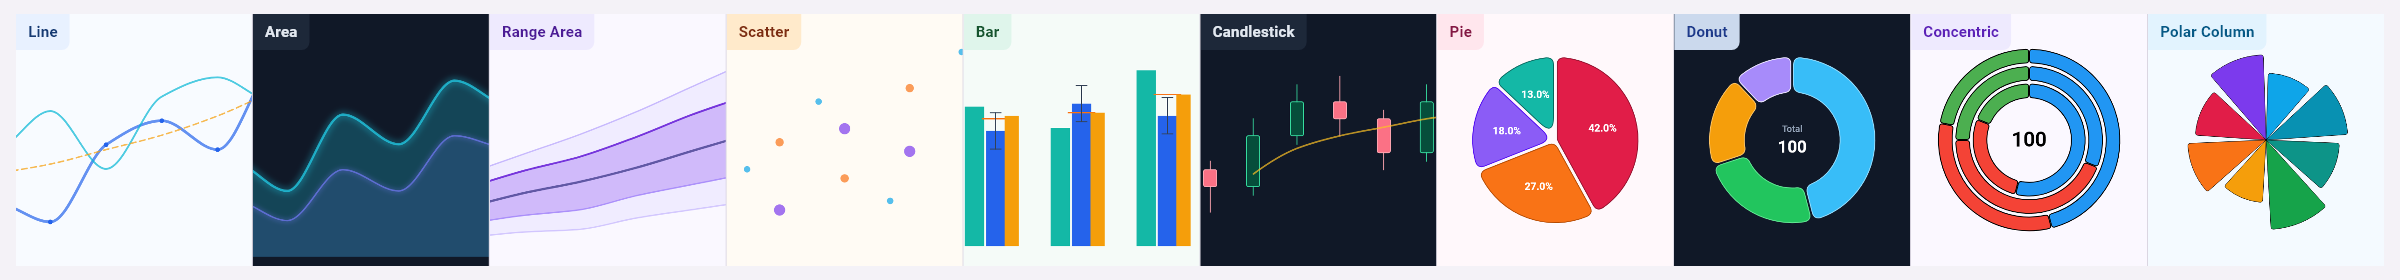
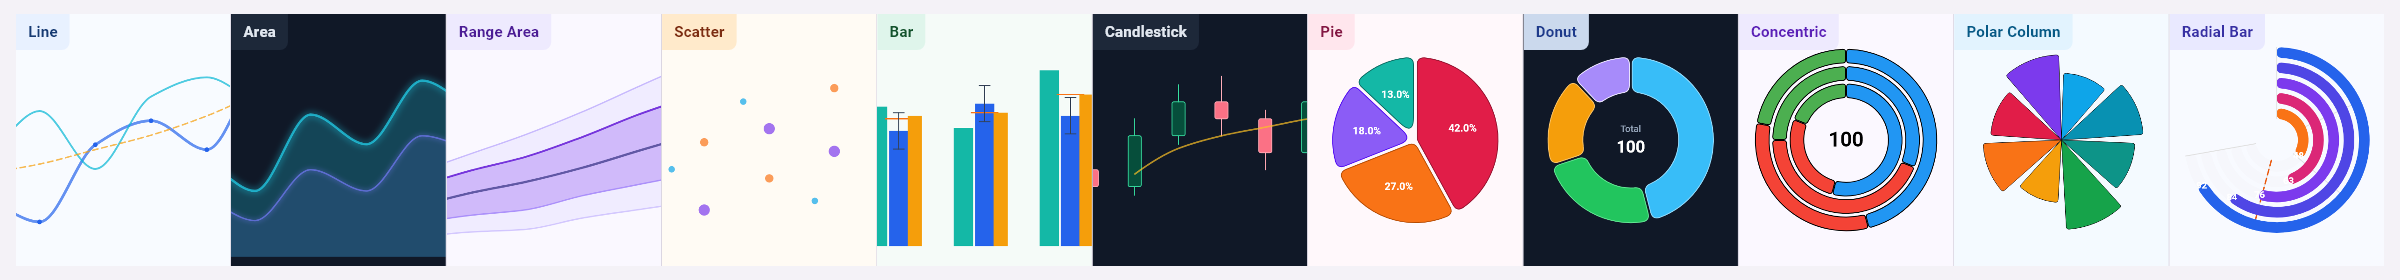
docs: publish radial bar family

diff --git a/tool/capture_pubdev_static_media_test.dart b/tool/capture_pubdev_static_media_test.dart
@@ -403,6 +403,26 @@ void main() {
     );
   });
 
+  testWidgets('capture pub.dev Radial Bar media', (tester) async {
+    await tester.runAsync(_loadCaptureFont);
+    final outputDirectory = Directory(_outputDirectory)
+      ..createSync(recursive: true);
+    final primary = _chartTypeAssets().singleWhere(
+      (asset) => asset.fileName == 'chart_type_radial_bar.png',
+    );
+
+    await _captureChartType(
+      tester,
+      outputDirectory: outputDirectory,
+      asset: primary,
+    );
+    await _captureChartType(
+      tester,
+      outputDirectory: outputDirectory,
+      asset: _radialBarSignedAsset(),
+    );
+  });
+
   testWidgets('capture pub.dev chart type strip', (tester) async {
     await tester.runAsync(_loadCaptureFont);
     final outputDirectory = Directory(_outputDirectory)
@@ -1040,6 +1060,7 @@ Future<_ChartTypeCapture> _captureChartType(
             interactionConfig: InteractionConfig.none(),
             concentricDonutConfig: asset.concentricDonutConfig,
             polarChartConfig: asset.polarChartConfig,
+            radialBarChartConfig: asset.radialBarChartConfig,
           ),
         ),
       ),
@@ -1198,6 +1219,11 @@ Future<void> _captureFamilyPairs(
       output: 'family_polar_column_pair.png',
       primary: 'chart_type_polar_column.png',
       secondary: 'polar_lifecycle_arc.png',
+    ),
+    (
+      output: 'family_radial_bar_pair.png',
+      primary: 'chart_type_radial_bar.png',
+      secondary: 'radial_bar_signed.png',
     ),
   ];
 
@@ -1361,6 +1387,7 @@ class _ChartTypeAsset {
     this.grid = const GridConfig(horizontal: true, vertical: false),
     this.concentricDonutConfig = const ConcentricDonutConfig(),
     this.polarChartConfig = const PolarChartConfig(),
+    this.radialBarChartConfig = const RadialBarChartConfig(),
   });
 
   final String label;
@@ -1372,6 +1399,7 @@ class _ChartTypeAsset {
   final GridConfig grid;
   final ConcentricDonutConfig concentricDonutConfig;
   final PolarChartConfig polarChartConfig;
+  final RadialBarChartConfig radialBarChartConfig;
 }
 
 class _ChartTypeCapture {
@@ -1451,6 +1479,9 @@ List<_ChartTypeAsset> _chartTypeAssets() {
   );
   final polarTheme = ChartTheme.light.copyWith(
     backgroundColor: const Color(0xFFF4FAFF),
+  );
+  final radialBarTheme = ChartTheme.light.copyWith(
+    backgroundColor: const Color(0xFFF8FAFF),
   );
 
   return [
@@ -2014,8 +2045,109 @@ List<_ChartTypeAsset> _chartTypeAssets() {
         ),
       ],
     ),
+    _ChartTypeAsset(
+      label: 'Radial Bar',
+      fileName: 'chart_type_radial_bar.png',
+      theme: radialBarTheme,
+      headerColor: const Color(0xFFE8E7FF),
+      headerTextColor: const Color(0xFF3730A3),
+      grid: const GridConfig(horizontal: false, vertical: false),
+      radialBarChartConfig: const RadialBarChartConfig(
+        pane: PolarPaneConfig(
+          startAngleDegrees: -90,
+          sweepAngleDegrees: 260,
+          innerRadiusFactor: 0.2,
+          outerRadiusFactor: 0.88,
+        ),
+        trackGap: 5,
+        showCategoryLabels: false,
+        showScaleLabels: false,
+        showGridLines: true,
+        tickCount: 5,
+        thresholds: [RadialBarThreshold(value: 75, color: Color(0xFFEA580C))],
+      ),
+      series: [
+        RadialBarChartSeries.fromMap(
+          id: 'radial-bar',
+          name: 'Readiness',
+          values: const {
+            'Build': 92,
+            'Quality': 84,
+            'Docs': 76,
+            'Adoption': 63,
+            'Support': 48,
+          },
+          barColors: const {
+            'Build': Color(0xFF2563EB),
+            'Quality': Color(0xFF4F46E5),
+            'Docs': Color(0xFF7C3AED),
+            'Adoption': Color(0xFFDB2777),
+            'Support': Color(0xFFF97316),
+          },
+          radialBarStyle: const RadialBarStyle(
+            cornerRadius: 8,
+            trackOpacity: 0.1,
+            showDataLabels: true,
+          ),
+        ),
+      ],
+    ),
   ];
 }
+
+_ChartTypeAsset _radialBarSignedAsset() => _ChartTypeAsset(
+  label: 'Signed Radial Bar',
+  fileName: 'radial_bar_signed.png',
+  theme: ChartTheme.dark.copyWith(backgroundColor: const Color(0xFF101827)),
+  headerColor: const Color(0xFF1E293B),
+  headerTextColor: const Color(0xFFE2E8F0),
+  grid: const GridConfig(horizontal: false, vertical: false),
+  radialBarChartConfig: const RadialBarChartConfig(
+    pane: PolarPaneConfig(
+      startAngleDegrees: -90,
+      sweepAngleDegrees: 320,
+      innerRadiusFactor: 0.2,
+      outerRadiusFactor: 0.88,
+    ),
+    trackGap: 5,
+    showCategoryLabels: false,
+    showScaleLabels: false,
+    showGridLines: true,
+    tickCount: 5,
+    thresholds: [
+      RadialBarThreshold(value: 0, color: Color(0xFFF8FAFC), dashPattern: []),
+    ],
+  ),
+  series: [
+    RadialBarChartSeries.fromMap(
+      id: 'radial-bar-signed',
+      name: 'Change',
+      values: const {
+        'Search': 42,
+        'Social': -18,
+        'Email': 31,
+        'Referral': -36,
+        'Direct': 54,
+      },
+      minimum: -60,
+      maximum: 60,
+      baseline: 0,
+      barColors: const {
+        'Search': Color(0xFF38BDF8),
+        'Social': Color(0xFFFB7185),
+        'Email': Color(0xFF2DD4BF),
+        'Referral': Color(0xFFF97316),
+        'Direct': Color(0xFFA78BFA),
+      },
+      unit: 'pts',
+      radialBarStyle: const RadialBarStyle(
+        cornerRadius: 8,
+        trackOpacity: 0.12,
+        showDataLabels: true,
+      ),
+    ),
+  ],
+);
 
 Future<void> _loadCaptureFont() async {
   final fontDirectory = _findFlutterMaterialFontDirectory();

diff --git a/tool/public_docs.dart b/tool/public_docs.dart
@@ -187,8 +187,8 @@ List<String> _validateCatalog(Directory root, Map<String, dynamic> catalog) {
   if (features.length != 6) {
     errors.add('features must contain exactly 6 evergreen groups.');
   }
-  if (families.length != 10) {
-    errors.add('chartFamilies must contain exactly 10 built-in families.');
+  if (families.length != 11) {
+    errors.add('chartFamilies must contain exactly 11 built-in families.');
   }
   if (gallery.length < 12 || gallery.length > 18) {
     errors.add('gallery must contain between 12 and 18 curated entries.');

diff --git a/README.md b/README.md
@@ -6,16 +6,16 @@
 
 Braven Charts is a native Flutter charting system for interactive, production-grade data visualization.
 
-Render ten chart families through one custom `RenderBox` and `Canvas` pipeline. Author charts directly, through the checked typed Grammar of Graphics API, or with fluent modifiers. Then add selection, tracking, live data, multi-axis analysis, generated source, tables, and portable artifacts without leaving Flutter's rendering system.
+Render eleven chart families through one custom `RenderBox` and `Canvas` pipeline. Author charts directly, through the checked typed Grammar of Graphics API, or with fluent modifiers. Then add selection, tracking, live data, multi-axis analysis, generated source, tables, and portable artifacts without leaving Flutter's rendering system.
 
-[![Ten chart families rendered by Braven Charts](https://raw.githubusercontent.com/braven-pvm/braven_charts/master/doc/screenshots/chart_type_strip.png)](https://braven-pvm.github.io/braven_charts/?page=chart-types)
+[![Eleven chart families rendered by Braven Charts](https://raw.githubusercontent.com/braven-pvm/braven_charts/master/doc/screenshots/chart_type_strip.png)](https://braven-pvm.github.io/braven_charts/?page=chart-types)
 
 **[Open the live showcase](https://braven-pvm.github.io/braven_charts/) · [Choose a chart family](https://braven-pvm.github.io/braven_charts/?page=chart-types) · [Browse documentation](https://braven-pvm.github.io/braven_charts/?page=docs)**
 
 ## Why Braven Charts
 
 <!-- BEGIN GENERATED: FEATURES -->
-- **[Ten chart families](https://braven-pvm.github.io/braven_charts/?page=chart-types):** Build Cartesian, financial, radial, and polar charts in one native renderer.
+- **[Eleven chart families](https://braven-pvm.github.io/braven_charts/?page=chart-types):** Build Cartesian, financial, radial, and polar charts in one native renderer.
 - **[Interaction and selection](https://braven-pvm.github.io/braven_charts/?page=selection):** Zoom, pan, track, annotate, select, and manipulate durable interval brushes.
 - **[Multi-axis analysis](https://braven-pvm.github.io/braven_charts/?page=multi-axis):** Coordinate independent axes, normalized series, navigators, and summaries.
 - **[Typed authoring and source](https://braven-pvm.github.io/braven_charts/?page=chart-grammar):** Choose direct config, checked Grammar, fluent modifiers, or generated Dart.
@@ -54,6 +54,11 @@ relevant Chart, Data, Split, and Source views.
 | --- | --- |
 | [![Three concentric donut rings with independent totals and Service-level health](https://raw.githubusercontent.com/braven-pvm/braven_charts/master/doc/screenshots/family_concentric_donut_pair.png)](https://braven-pvm.github.io/braven_charts/?page=concentric-donut) | [![Area-correct rose columns arranged on a polar axis and Lifecycle arc](https://raw.githubusercontent.com/braven-pvm/braven_charts/master/doc/screenshots/family_polar_column_pair.png)](https://braven-pvm.github.io/braven_charts/?page=polar-column) |
 | Comparing distributions across periods, cohorts, or groups<br>[Concentric Donut chart family](https://braven-pvm.github.io/braven_charts/?page=concentric-donut) · [Service-level health](https://braven-pvm.github.io/braven_charts/?page=concentric-donut)<br>[Open all Concentric Donut examples](https://braven-pvm.github.io/braven_charts/?page=concentric-donut) · [Concentric Donut guide](https://github.com/braven-pvm/braven_charts/blob/master/doc/concentric_donut_charts.md) | Cyclical categories and compact magnitude profiles<br>[Polar Column and Rose chart family](https://braven-pvm.github.io/braven_charts/?page=polar-column) · [Lifecycle arc](https://braven-pvm.github.io/braven_charts/?page=polar-column)<br>[Open all Polar Column / Rose examples](https://braven-pvm.github.io/braven_charts/?page=polar-column) · [Polar Column / Rose guide](https://github.com/braven-pvm/braven_charts/blob/master/doc/polar_column_charts.md) |
+
+| **[Radial Bar](https://braven-pvm.github.io/braven_charts/?page=radial-bar)** |
+| --- |
+| [![Radial bars comparing category progress on an explicit numeric scale and Signed baseline comparison](https://raw.githubusercontent.com/braven-pvm/braven_charts/master/doc/screenshots/family_radial_bar_pair.png)](https://braven-pvm.github.io/braven_charts/?page=radial-bar) |
+| Category progress, targets, signed baselines, and compact KPI tracks<br>[Radial Bar chart family](https://braven-pvm.github.io/braven_charts/?page=radial-bar) · [Signed baseline comparison](https://braven-pvm.github.io/braven_charts/?page=radial-bar)<br>[Open all Radial Bar examples](https://braven-pvm.github.io/braven_charts/?page=radial-bar) · [Radial Bar guide](https://github.com/braven-pvm/braven_charts/blob/master/docs/guides/radial-bar-charts.md) |
 <!-- END GENERATED: FAMILIES -->
 
 ## Install
